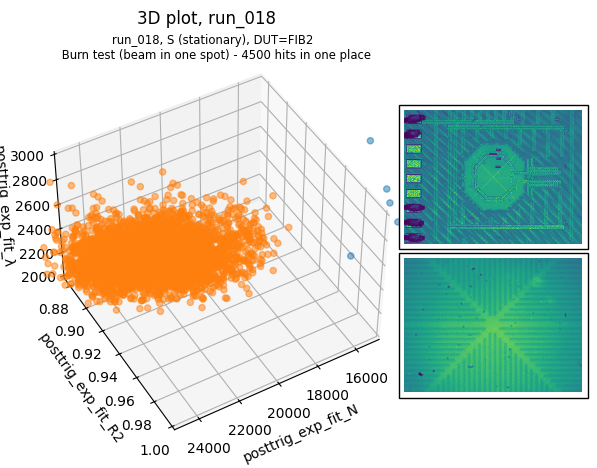
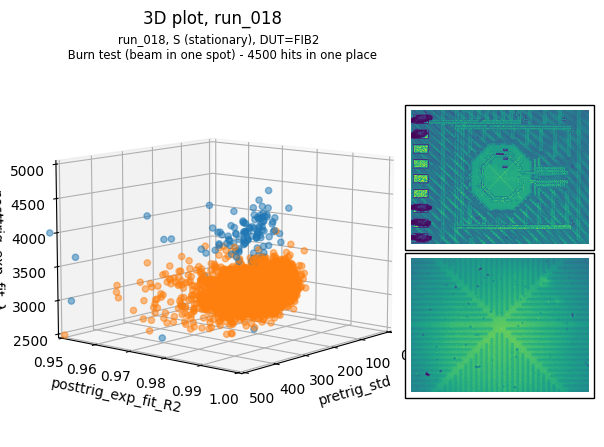
Changed classification report to confusion matrix + other improvements

diff --git a/new/model_isolationforest.py b/new/model_isolationforest.py
@@ -2,12 +2,16 @@ import os
 from matplotlib import pyplot as plt
 import pandas as pd
 import argparse
-from sklearn.metrics import classification_report
+from sklearn.metrics import confusion_matrix
 from sklearn.ensemble import IsolationForest
 import seaborn as sns
 
 from config import DATA_FEATURES_DIRECTORY, DATA_LABELED_DIRECTORY
 from utils import generatePlotTitle
+
+FEATURE_1 = "pretrig_std"
+FEATURE_2 = "posttrig_exp_fit_R2"
+FEATURE_3 = "posttrig_exp_fit_λ"
 
 # Initialise argument parser
 parser = argparse.ArgumentParser()
@@ -16,9 +20,13 @@ args = parser.parse_args()
 run_number = args.run_number
 
 # Combine labeled data with unlabeled extracted features
-df_features = pd.read_csv(os.path.join(DATA_FEATURES_DIRECTORY, f"run_{run_number:03d}.csv"))
-df_labeled = pd.read_csv(os.path.join(DATA_LABELED_DIRECTORY, f"run_{run_number:03d}.csv"))
-df = pd.merge(df_features, df_labeled, on='transient')
+df_features = pd.read_csv(
+    os.path.join(DATA_FEATURES_DIRECTORY, f"run_{run_number:03d}.csv")
+)
+df_labeled = pd.read_csv(
+    os.path.join(DATA_LABELED_DIRECTORY, f"run_{run_number:03d}.csv")
+)
+df = pd.merge(df_features, df_labeled, on="transient")
 df.type = df.type.astype("category")
 df.valid = df.valid.astype("category")
 
@@ -28,31 +36,40 @@ df_cleaned = df_cleaned.select_dtypes(include="number")
 
 # Assign target vectors
 X = df_cleaned
-y = df['valid']
+y = df["valid"]
 
-df_cleaned = df_cleaned[["posttrig_exp_fit_N", "posttrig_exp_fit_R2", "posttrig_exp_fit_λ"]]
+df_cleaned = df_cleaned[[FEATURE_1, FEATURE_2, FEATURE_3]]
 
 # Train classifier
-clf = IsolationForest(max_samples=100)
-y_pred = clf.fit_predict(X)
-y_pred = [0 if x == -1 else 1 for x in y_pred]
+clf = IsolationForest(contamination=0.075)
+clf.fit(X)
+y_pred_scores = clf.decision_function(X)
 
-print(classification_report(y, y_pred))
+threshold = 0
+y_pred = [0 if score < threshold else 1 for score in y_pred_scores]
+
+tn, fp, fn, tp = confusion_matrix(y, y_pred).ravel()
+
+print("Positive (1) = valid transient, Negative (0) = invalid transient")
+print("AP = Actual Positive, AN = Actual Negative")
+print("PP = Predicted Positive, PN = Predicted Negative")
+print("---------------------------------------")
+print("           CONFUSION MATRIX            ")
+print("---------------------------------------")
+print("\tAP\tAN")
+print(f"PP\t{tp}\t{fp}")
+print(f"PN\t{fn}\t{tn}")
 
 
 # -------------------
 
 
-df['valid'] = y_pred
-
-FEATURE_1 = "posttrig_exp_fit_N"
-FEATURE_2 = "posttrig_exp_fit_R2"
-FEATURE_3 = "posttrig_exp_fit_λ"
+df["valid"] = y_pred
 
 # Initialize the 3D graph
 fig = plt.figure()
 ax = fig.add_subplot(111, projection="3d")
-ax.view_init(elev=45., azim=60)
+ax.view_init(elev=10, azim=40)
 
 # Define scaled features as arrays
 xdata = df[FEATURE_1]
@@ -63,27 +80,24 @@ zdata = df[FEATURE_3]
 color_labels = df["valid"].unique()
 col_values = sns.color_palette(n_colors=len(color_labels))
 color_map = dict(zip(color_labels, col_values))
-colors = [color_map[label] for label in df['valid'].values]
+colors = [color_map[label] for label in df["valid"].values]
 
-# Add transient names to plot
+# Add outlier scores to plot
 # for i in range(len(xdata)):
-#     if random.random() < 0.1:
+#     if y_pred_scores[i] < threshold:
 #         ax.text(
-#             xdata[i], ydata[i], zdata[i], pca_df_scaled["transient"][i], fontsize='small'
-#         )
+#             xdata[i], ydata[i], zdata[i], f"{y_pred_scores[i]:.3f}", fontsize="small"
+#         ).set_clip_on(True)
 
 ax.scatter(xdata, ydata, zdata, c=colors, alpha=0.5)
-
-# Plot title of graph
-generatePlotTitle(ax, f"3D plot, run_{run_number:03d}", run_number)
 
 # Plot x, y, z labels
 ax.set_xlabel(FEATURE_1)
 ax.set_ylabel(FEATURE_2)
 ax.set_zlabel(FEATURE_3)
 
-ax.set_xlim(15e3, 25e3)
-ax.set_ylim(0.875, 1)
-ax.set_zlim(2e3, 3e3)
+ax.set_xlim(0, 500)
+ax.set_ylim(0.95, 1)
+ax.set_zlim(2.5e3, 5e3)
 
-plt.savefig(f"plots/model_isolationforest.png", bbox_inches="tight")
+plt.savefig(f"plots/model_isolationforest.png")

diff --git a/new/model_isolationforest_nometrics.py b/new/model_isolationforest_nometrics.py
@@ -1,13 +1,10 @@
 import os
+from matplotlib import pyplot as plt
 import pandas as pd
-import numpy as np
 import argparse
-import random
+from sklearn.metrics import classification_report
+from sklearn.ensemble import IsolationForest
 import seaborn as sns
-from sklearn.decomposition import PCA
-from sklearn.preprocessing import StandardScaler
-import matplotlib.pyplot as plt
-from matplotlib.colors import from_levels_and_colors
 
 from config import DATA_FEATURES_DIRECTORY, DATA_LABELED_DIRECTORY
 from utils import generatePlotTitle
@@ -22,10 +19,32 @@ parser.add_argument("run_number", type=int)
 args = parser.parse_args()
 run_number = args.run_number
 
-df_features = pd.read_csv(os.path.join(DATA_FEATURES_DIRECTORY, f"run_{run_number:03d}.csv"))
-df_labeled = pd.read_csv(os.path.join(DATA_LABELED_DIRECTORY, f"run_{run_number:03d}.csv"))
-df = pd.merge(df_features, df_labeled, on='transient')
-df.valid = df.valid.astype("category")
+# Combine labeled data with unlabeled extracted features
+df = pd.read_csv(
+    os.path.join(DATA_FEATURES_DIRECTORY, f"run_{run_number:03d}.csv")
+)
+
+# Only retain numeric columns with no NaN values
+df_cleaned = df.dropna(axis=1)
+df_cleaned = df_cleaned.select_dtypes(include="number")
+
+# Assign target vectors
+X = df_cleaned
+
+df_cleaned = df_cleaned[[FEATURE_1, FEATURE_2, FEATURE_3]]
+
+# Train classifier
+clf = IsolationForest()
+clf.fit(X)
+y_pred_scores = clf.decision_function(X)
+
+threshold = 0
+y_pred = [0 if score < threshold else 1 for score in y_pred_scores]
+
+# -------------------
+
+
+df["valid"] = y_pred
 
 # Initialize the 3D graph
 fig = plt.figure()
@@ -41,19 +60,16 @@ zdata = df[FEATURE_3]
 color_labels = df["valid"].unique()
 col_values = sns.color_palette(n_colors=len(color_labels))
 color_map = dict(zip(color_labels, col_values))
-colors = [color_map[label] for label in df['valid'].values]
+colors = [color_map[label] for label in df["valid"].values]
 
-# Add transient names to plot
+# Add outlier scores to plot
 # for i in range(len(xdata)):
-#     if random.random() < 0.1:
+#     if y_pred_scores[i] < threshold:
 #         ax.text(
-#             xdata[i], ydata[i], zdata[i], pca_df_scaled["transient"][i], fontsize='small'
-#         )
+#             xdata[i], ydata[i], zdata[i], f"{y_pred_scores[i]:.3f}", fontsize="small"
+#         ).set_clip_on(True)
 
 ax.scatter(xdata, ydata, zdata, c=colors, alpha=0.5)
-
-# Plot title of graph
-generatePlotTitle(ax, f"3D plot, run_{run_number:03d}", run_number)
 
 # Plot x, y, z labels
 ax.set_xlabel(FEATURE_1)
@@ -64,4 +80,4 @@ ax.set_xlim(0, 500)
 ax.set_ylim(0.95, 1)
 ax.set_zlim(2.5e3, 5e3)
 
-plt.savefig(f"plots/3d.png", bbox_inches="tight")
+plt.savefig(f"plots/model_isolationforest.png")
